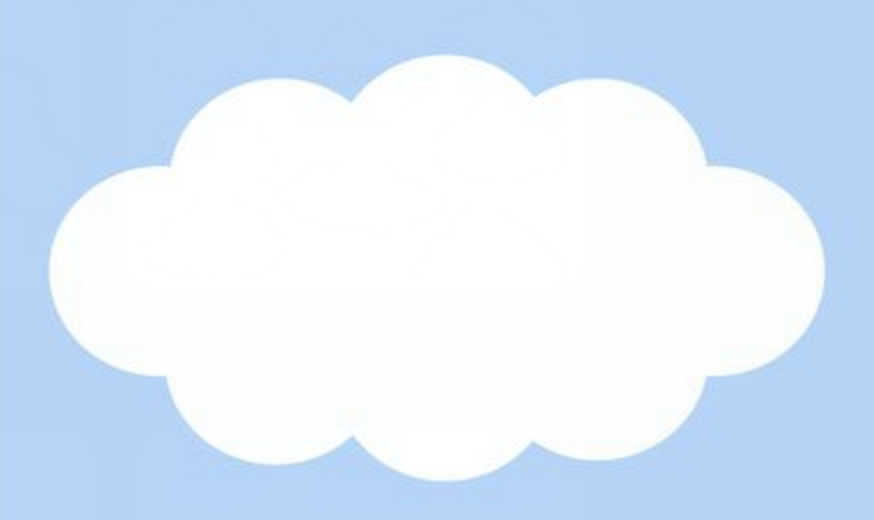
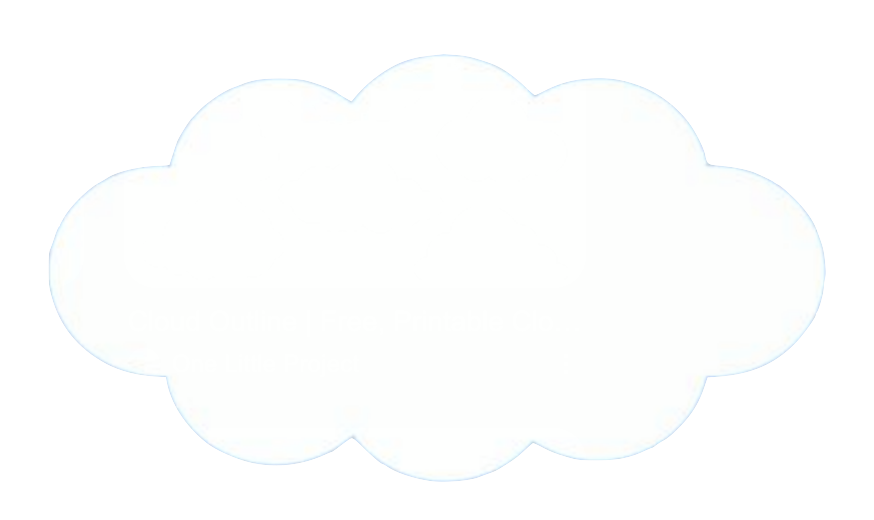
refactor: fine-tune farm screen layout and components
- Adjusted sun position up to 20% screen height for better balance
- Enlarged cloud header container (height 140, wider margins)
- Resized dirt platform to middle size (75% width, 42% height)
- Repositioned Log Sleep button to bottom of farm screen
- Fixed sheep container overflow with visibility settings
- Improved spacing and alignment for better UI balance

🤖 Generated with [Claude Code](https://claude.com/claude-code)

diff --git a/app/(tabs)/index.tsx b/app/(tabs)/index.tsx
@@ -86,6 +86,14 @@ export default function HomeScreen() {
             />
           ))}
         </View>
+
+        {/* Log Sleep Button - Bottom */}
+        <TouchableOpacity
+          style={styles.logSleepButton}
+          onPress={() => router.push('/sleep-log')}
+        >
+          <Text style={styles.logSleepText}>💤 Log Sleep</Text>
+        </TouchableOpacity>
       </View>
     );
   };
@@ -131,14 +139,6 @@ export default function HomeScreen() {
             <Text style={styles.statValue}>{aliveSheep} 🐑</Text>
           </View>
         </View>
-
-        {/* Log Sleep Button */}
-        <TouchableOpacity
-          style={styles.logSleepButton}
-          onPress={() => router.push('/sleep-log')}
-        >
-          <Text style={styles.logSleepText}>💤 Log Sleep</Text>
-        </TouchableOpacity>
       </View>
     );
   };
@@ -180,9 +180,9 @@ const styles = StyleSheet.create({
   cloudHeaderContainer: {
     position: 'absolute',
     top: 40,
-    left: SCREEN_WIDTH * 0.05,
-    right: SCREEN_WIDTH * 0.05,
-    height: 120,
+    left: SCREEN_WIDTH * 0.02,
+    right: SCREEN_WIDTH * 0.02,
+    height: 140,
     justifyContent: 'center',
     alignItems: 'center',
     zIndex: 10,
@@ -202,7 +202,7 @@ const styles = StyleSheet.create({
   },
   sunContainer: {
     position: 'absolute',
-    top: SCREEN_HEIGHT * 0.35,
+    top: SCREEN_HEIGHT * 0.20,
     right: 30,
     zIndex: 10,
   },
@@ -234,18 +234,20 @@ const styles = StyleSheet.create({
   },
   farmPlatform: {
     position: 'absolute',
-    top: SCREEN_HEIGHT * 0.25,
-    left: SCREEN_WIDTH * 0.05,
-    width: SCREEN_WIDTH * 0.9,
-    height: SCREEN_HEIGHT * 0.5,
+    top: SCREEN_HEIGHT * 0.30,
+    left: SCREEN_WIDTH * 0.125,
+    width: SCREEN_WIDTH * 0.75,
+    height: SCREEN_HEIGHT * 0.42,
+    overflow: 'visible',
   },
   sheepContainer: {
     position: 'absolute',
-    top: SCREEN_HEIGHT * 0.25,
-    left: SCREEN_WIDTH * 0.05,
-    width: SCREEN_WIDTH * 0.9,
-    height: SCREEN_HEIGHT * 0.5,
+    top: SCREEN_HEIGHT * 0.28,
+    left: SCREEN_WIDTH * 0.1,
+    width: SCREEN_WIDTH * 0.8,
+    height: SCREEN_HEIGHT * 0.45,
     zIndex: 5,
+    overflow: 'visible',
   },
   sheepSprite: {
     position: 'absolute',
@@ -301,12 +303,15 @@ const styles = StyleSheet.create({
     color: '#fff',
   },
   logSleepButton: {
-    marginHorizontal: 30,
-    marginTop: 30,
+    position: 'absolute',
+    bottom: 30,
+    left: 30,
+    right: 30,
     padding: 20,
     backgroundColor: '#e94560',
     borderRadius: 16,
     alignItems: 'center',
+    zIndex: 10,
   },
   logSleepText: {
     fontSize: 20,

diff --git a/prompt.md b/prompt.md
@@ -1,4 +1,8 @@
 To do:
-1. bruh you moved the sun up instead of down...
-2. The textbox around Shepherd's farm should be cloud shaped! refer to cloud.png for what i want. all you did last time was make it bigger
-3. I want only the block of dirt platform and the dark background. nothing else. Get rid of the weird whatever brown boc you currently have and the tree. Also i deleted the backgorund on the original png so update that as well. Finally make the platform bigger
+1. the sun is too down now... make it go up a bit
+2. cloud is too small.. make it a little bit bigger
+2. the block is too big now. make it smaller (middle of original and current size)
+3. move the log sleep button to the bottom of screen 1 instead. it looks better there
+
+
+commit after changes
